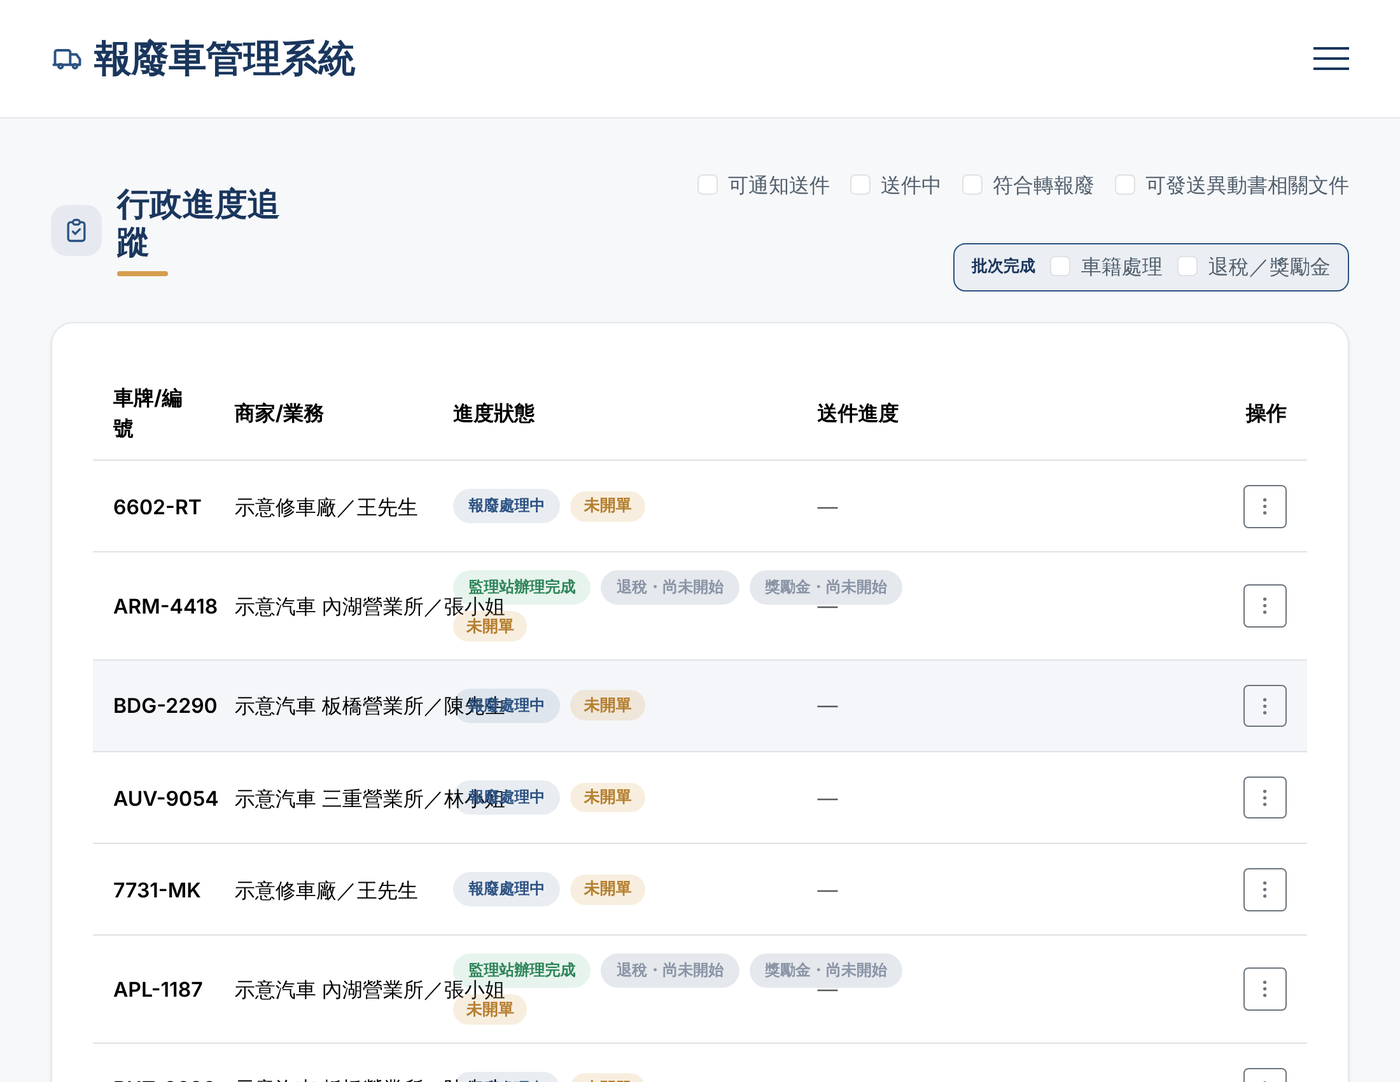
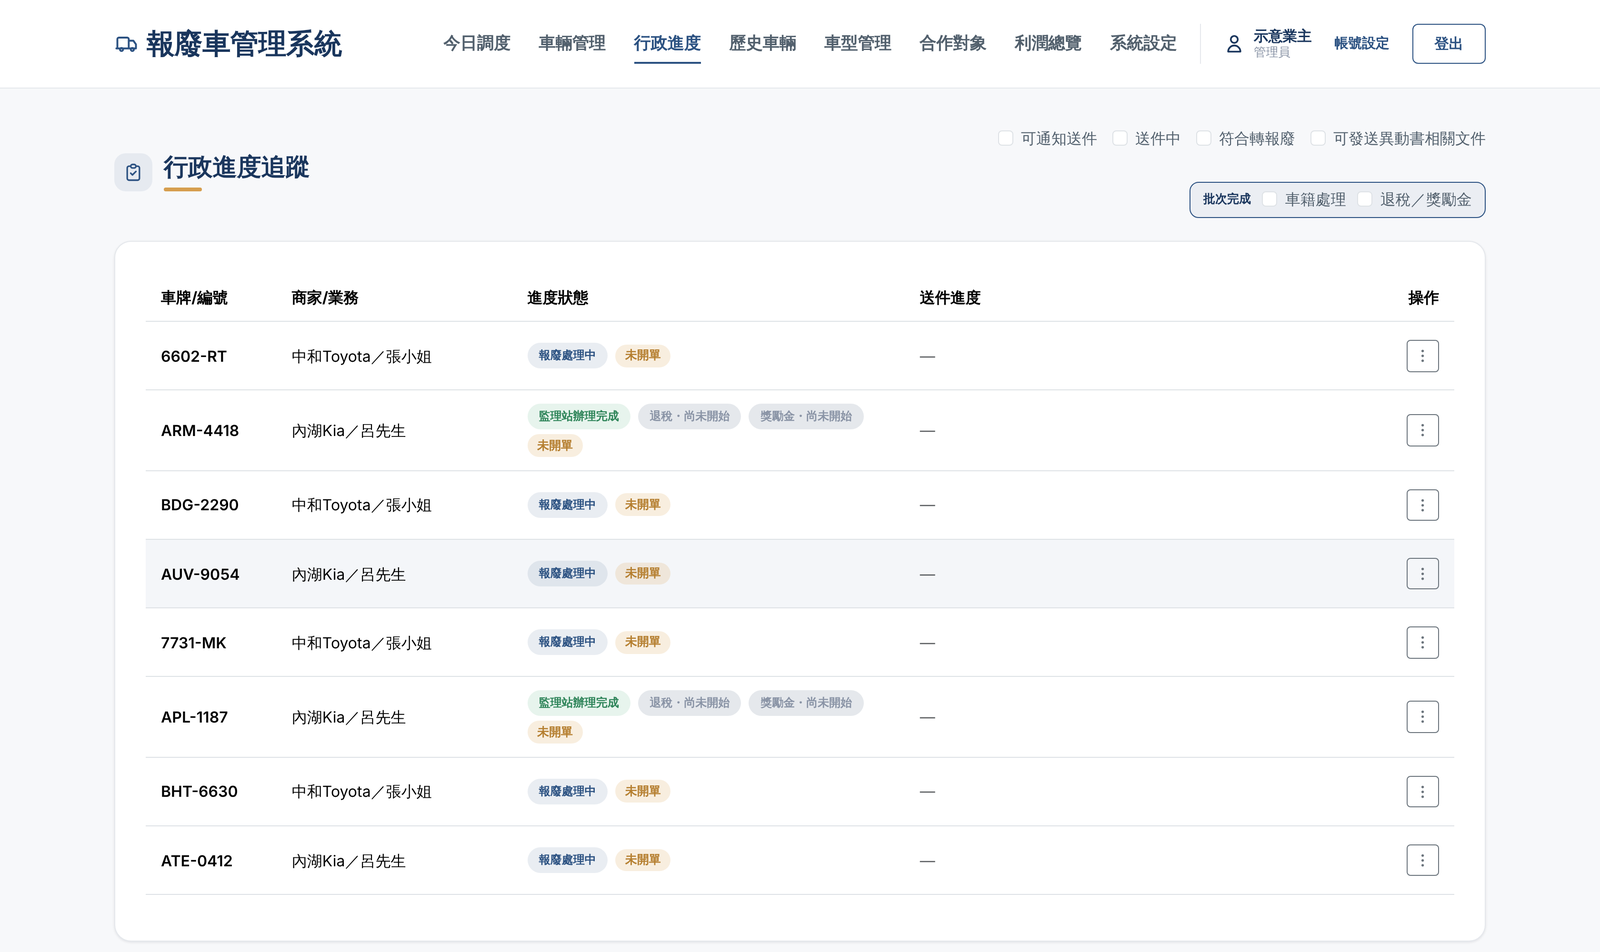
Use a real LINE screen and clearer sample data in the scrap-car case
The showcase phone now shows a real tow notice from the system's LINE
account (plate, contact name and phone number blurred) instead of a
drawn mock-up, and the unused illustration data and styles are gone.

The back-office screens were recaptured with two sample partners,
中和Toyota／張小姐 and 內湖Kia／呂先生, and the office progress board
at a width where its columns no longer run into each other.

Claude-Session: https://claude.ai/code/session_01HHMxfcUwWVAcVHjp5jyPPB

diff --git a/src/i18n/cases.ts b/src/i18n/cases.ts
@@ -4,7 +4,8 @@
 // - scrap: WaWaEMu/scrap_car_system @ 1ceafb2 — docs/PROPOSAL.md, docs/PRODUCT.md, PROGRESS.md, routes/, app/, tests/
 // Clients stay anonymous: no venue, company, person or LINE account names. Screens were captured from the real
 // apps running locally with sample data; the venue name in the court screens is replaced with sample text.
-// LINE illustrations reuse the apps' own wording (AdminNotificationService, LineIntakeService, ScheduleService).
+// LINE illustrations reuse the apps' own wording (AdminNotificationService, LineRichMenuRole). The scrap-car LINE screen
+// (assets/scrap/line-chat.jpg) is a real phone screenshot with the plate, contact name and phone number blurred.
 
 import type { Lang } from "./copy";
 
@@ -24,9 +25,7 @@ export type ScrapVisual = {
   kind: "scrap";
   sampleNote: string;
   illustration: string;
-  menu: string[];
   roles: { title: string; list: string[] };
-  chat: { ask: string; head: string; rows: string[] };
   stages: string[];
   elig: { title: string; states: string[]; plate: string };
   formula: { profit: string; resale: string; purchase: string; plate: string; driver: string };
@@ -80,17 +79,6 @@ const COURT_FLEX: CourtVisual["flex"] = {
   confirm: "確認核對",
   reject: "拒絕",
   supplement: "補件通知",
-};
-// The owner's rich menu, in order (LineRichMenuRole::Admin->buttons()).
-const SCRAP_MENU = ["新增車輛", "車輛資料", "今日任務", "車輛追蹤", "財務待補", "未開單", "使用說明", "異動書追蹤"];
-const SCRAP_CHAT: ScrapVisual["chat"] = {
-  ask: "今日行程",
-  head: "【今天已預約、待拖吊】",
-  rows: [
-    "・AKD-5520（商家：示意汽車 三重營業所／業務：林小姐）",
-    "・RBF-0921（商家：示意修車廠／業務：王先生）",
-    "・8823-QN（商家：示意汽車 內湖營業所／業務：張小姐）",
-  ],
 };
 
 const courtEn: Case = {
@@ -419,7 +407,7 @@ const scrapEn: Case = {
     { k: "Area", v: "Taipei and New Taipei" },
   ],
   stageCaption:
-    "Real screens from the back office (Chinese UI) and an illustration of the owner’s LINE chat and menu, using the system’s own wording. Plates, people and amounts are sample data.",
+    "Real screens (Chinese UI): the back office with sample data, and a tow notice in LINE from the live system, with personal details blurred.",
   beforeTitle: "What changed for the |business",
   beforeLabel: "Before",
   afterLabel: "Now",
@@ -523,18 +511,17 @@ const scrapEn: Case = {
     kind: "scrap",
     sampleNote: "Real interface, sample data.",
     illustration: "Illustration using the system’s own wording (Chinese UI).",
-    menu: SCRAP_MENU,
     roles: {
       title: "A LINE menu for each role",
       list: ["Owner", "Office assistant", "Salesperson", "Document courier", "Driver (tow)", "Driver (drive-in)", "Guest (not linked)"],
     },
-    chat: SCRAP_CHAT,
     stages: ["Collected", "Filed with scrapyard", "Deregistered", "Tax refund", "Recycling reward"],
     elig: { title: "Subsidy eligibility", states: ["Eligible", "Not eligible", "Not yet known"], plate: "No plate? Tracking number" },
     formula: { profit: "Profit", resale: "Resale price", purchase: "Purchase price", plate: "Plate fee", driver: "Driver fee" },
   },
   alts: {
     browser: "The vehicle list in the back office: plate, salesperson, model, purchase and resale amounts, subsidy eligibility and tow status.",
+    phone: "A tow notice in the company’s LINE account: a card with the pickup date, address and documents to collect, buttons to view photos and mark the car towed or delivered, and the role menu below.",
     schedule: "Today’s tow schedule: each car’s plate, salesperson, pickup location and status, with buttons to mark it towed or delivered.",
     progress: "The office progress board: each car’s current deregistration stage and paperwork status.",
   },
@@ -564,7 +551,7 @@ const scrapZh: Case = {
     { k: "版本", v: "2026 年 7 月上線，持續更新中" },
     { k: "服務區域", v: "雙北" },
   ],
-  stageCaption: "畫面取自後台實際介面，搭配業主 LINE 聊天室與選單示意圖，文字取自系統實際用語。車牌、人名與金額為示意資料。",
+  stageCaption: "畫面取自系統實際介面：後台為示意資料；LINE 畫面為實際使用中的拖吊通知，個人資料已模糊處理。",
   beforeTitle: "每天的工作，|變了什麼",
   beforeLabel: "以前",
   afterLabel: "現在",
@@ -668,15 +655,14 @@ const scrapZh: Case = {
     kind: "scrap",
     sampleNote: "實際介面，資料為示意。",
     illustration: "示意圖，文字取自系統實際用語。",
-    menu: SCRAP_MENU,
     roles: { title: "每種角色，各有一套 LINE 選單", list: ["業主", "行政", "業務", "送件大哥", "司機（拖車）", "司機（自行開）", "訪客（未綁定）"] },
-    chat: SCRAP_CHAT,
     stages: ["完成拖吊", "報廢廠開單", "車籍處理", "退稅", "環保獎勵金"],
     elig: { title: "補助資格", states: ["符合", "不符合", "尚未判定"], plate: "沒有車牌？追蹤編號" },
     formula: { profit: "利潤", resale: "賣車金額", purchase: "收購金額", plate: "牌照費", driver: "司機費" },
   },
   alts: {
     browser: "後台的車輛管理：車牌、業務、車型、收購與賣車金額、補助資格和拖吊狀態。",
+    phone: "公司 LINE 官方帳號裡的拖吊通知：卡片列出拖吊日期、地址與需收資料，可查看照片、標記已拖未交車或已交車，下方是角色選單。",
     schedule: "今日調度：每台車的車牌、業務、拖車地點與狀態，以及標記已拖未交車、已交車的按鈕。",
     progress: "行政進度追蹤：每台車目前的車籍處理階段與送件狀態。",
   },
